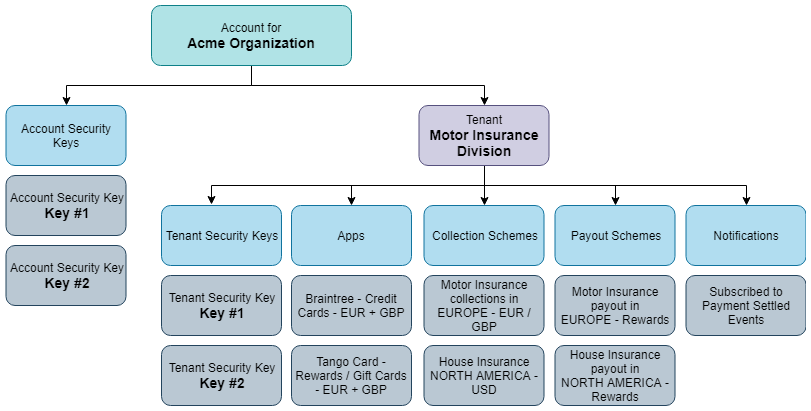
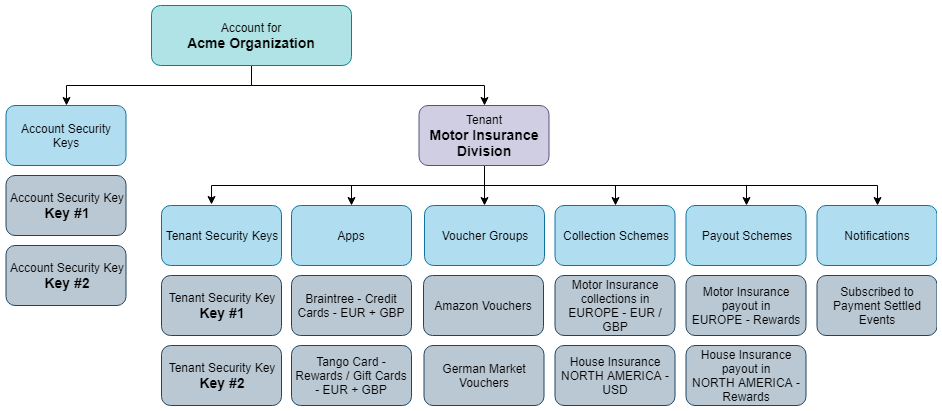
Added Getting Started Introduction. Updated images with new Voucher Groups. Updated Core Concepts.

diff --git a/getting-started.html b/getting-started.html
@@ -51,6 +51,17 @@
                             <div class="icon-holder">
                                 <span aria-hidden="true" class="icon icon_documents_alt"></span>
                             </div>
+                            <h3 class="title">Introduction</h3>
+                            <p class="intro">Getting starting with the Imburse APIs.</p>
+                            <a class="link" href="/pages/getting-started/introduction"><span></span></a>
+                        </div>
+                    </div>
+
+                    <div class="item item-green item-2 col-lg-4 col-6">
+                        <div class="item-inner">
+                            <div class="icon-holder">
+                                <span aria-hidden="true" class="icon icon_documents_alt"></span>
+                            </div>
                             <h3 class="title">Authentication</h3>
                             <p class="intro">How authentication works.</p>
                             <a class="link" href="/pages/getting-started/authentication"><span></span></a>
@@ -91,6 +102,17 @@
                     </div>
 
                     <div class="item item-green item-2 col-lg-4 col-6">
+                            <div class="item-inner">
+                                <div class="icon-holder">
+                                    <span aria-hidden="true" class="icon icon_documents_alt"></span>
+                                </div>
+                                <h3 class="title">Payout Schemes</h3>
+                                <p class="intro">Setting up and configuring Payout Schemes.</p>
+                                <a class="link" href="/pages/getting-started/voucher-groups"><span></span></a>
+                            </div>
+                        </div>
+
+                    <div class="item item-green item-2 col-lg-4 col-6">
                         <div class="item-inner">
                             <div class="icon-holder">
                                 <span aria-hidden="true" class="icon icon_documents_alt"></span>
@@ -106,9 +128,9 @@
                             <div class="icon-holder">
                                 <span aria-hidden="true" class="icon icon_documents_alt"></span>
                             </div>
-                            <h3 class="title">Payout Schemes</h3>
-                            <p class="intro">Setting up and configuring Payout Schemes.</p>
-                            <a class="link" href="/pages/getting-started/payout-schemes"><span></span></a>
+                            <h3 class="title">Rewards Catalog</h3>
+                            <p class="intro">Using the Reward Catalog.</p>
+                            <a class="link" href="/pages/getting-started/rewards-catalog"><span></span></a>
                         </div>
                     </div>
 
@@ -117,9 +139,9 @@
                             <div class="icon-holder">
                                 <span aria-hidden="true" class="icon icon_documents_alt"></span>
                             </div>
-                            <h3 class="title">Rewards Catalog</h3>
-                            <p class="intro">Using the Reward Catalog.</p>
-                            <a class="link" href="/pages/getting-started/rewards-catalog"><span></span></a>
+                            <h3 class="title">Payout Schemes</h3>
+                            <p class="intro">Setting up and configuring Payout Schemes.</p>
+                            <a class="link" href="/pages/getting-started/payout-schemes"><span></span></a>
                         </div>
                     </div>
 

diff --git a/_includes/tocs.html b/_includes/tocs.html
@@ -20,6 +20,7 @@
                     <a class="nav-link scrollto" href="#marketplace">Marketplace</a>
                     <a class="nav-link scrollto" href="#apps">Apps</a>
                     <a class="nav-link scrollto" href="#rewards-catalog">Rewards Catalog</a>
+                    <a class="nav-link scrollto" href="#voucher-groups">Voucher Groups</a>
                     <a class="nav-link scrollto" href="#collection-schemes">Collection Schemes</a>
                     <a class="nav-link scrollto" href="#payout-schemes">Payout Schemes</a>
                     <a class="nav-link scrollto" href="#webhooks">Webhooks</a>
@@ -39,8 +40,13 @@
                     <a class="nav-link scrollto" href="#overview">Overview</a>
 
 
+                {% when 'getting-started-introduction' %}
 
-
+                    <a class="nav-link scrollto" href="#introduction">Introduction</a>
+                    <a class="nav-link scrollto" href="#error-codes">Error Codes</a>
+                    <a class="nav-link scrollto" href="#correlation-ids">Correlation Ids</a>
+                    <a class="nav-link scrollto" href="#metadata">Metadata</a>
+                    <a class="nav-link scrollto" href="#versioning">Versioning</a>
 
                 {% when 'getting-started-authentication' %}
 

diff --git a/documentation.html b/documentation.html
@@ -89,7 +89,7 @@
                         </div>
                     </div>
 
-                    <div class="item item-primary col-lg-4 col-6">
+                    <div class="item item-blue col-lg-4 col-6">
                         <div class="item-inner">
                             <div class="icon-holder">
                                 <i class="icon icon_documents_alt"></i>

diff --git a/pages/getting-started/voucher-groups.md b/pages/getting-started/voucher-groups.md
@@ -1,0 +1,101 @@
+---
+layout: default
+title: Getting Started
+toc: getting-started-authentication
+body_color: body-primary
+section_name: Authentication
+last_updated: May 9th, 2019
+icon_class: icon_documents_alt icon
+---
+# Voucher Groups
+Imburse authenticates your API requests using your Account’s or Tenant's API keys. If you do not include your key when making an API request, or use one that is incorrect or outdated, Imburse returns an error.
+
+Every account is provided with one Account Security Key at registration time. All API requests exist in either sandbox or live modes and your accounts, tenants, apps, schemes, and so forth in one mode cannot be manipulated in the other.
+
+Your API keys are available in the Imburse Portal, however, you cannot get the private key value after it has been created; either via the API or the Imburse Portal. You must safely store the private key values once they have been created.
+
+## Functions
+The available authentication functions are:
+
+- Add a Voucher Group
+- Get all Voucher Groups
+- Get a Voucher Group
+- Update a Voucher Group
+- Delete a Voucher Group
+
+## API Documentation
+All the Authentication API functions are fully documented in the [Voucher Group API documentation](https://api-docs.imbursepayments.com/?version=latest#f6bf99b9-ca03-47b5-a667-8e1a5a625b0e).
+
+## HMAC and Bearer Tokens
+HMAC (Hashed Message Authentication Code), is a specific type of MAC involving a cryptographic hash function and a secret cryptographic key. It is used to simultaneously verify both the data integrity and the authentication of a message. We use the HMAC authentication process for your initial authentication into the Imburse platform.
+
+Once authenticated via the HMAC authentication scheme, we return you a Bearer token to use in subsequence requests.
+
+The HMAC scheme is extremely secure but is computationally quite expensive, both on the client and the server; hence why we respond with a Bearer token once authenticated.
+
+The Bearer token we respond with is a crpytic string signed on the Imburse platform and validated on the server for each API request.
+
+## Account Security Keys vs Tenant Security Keys
+Your account is the top level in a 2-teir heiarachy. Your account can have many Tenants. As such, we have separate Security Keys for Accounts and Tenants.
+
+- **Account Security Key** - access to create new Account Security Keys, create new Tenants, and create new Tenant Security Keys for said Tenants.
+- **Tenant Security Key** - access to configuring the Tenant's Apps, Schemes, and so forth.
+
+Which one you use when authenticating determines the context you are in - either Account or Tenant.
+
+## Tenant Self Service vs Account Controlled
+As the account owner, you can setup your Tenants in two ways:
+
+- **Tenant Self Service** - Set them up with a Tenant Security Key granted with full-access and **SHARE** the public and private key with the Tenant. With a full-access Tenant Security Key the Tenant can self administer themselves, including setting up more Tenant Security Keys for other team members.
+- **Account Controlled** - Setup a Tenant Security Key but **DO NOT SHARE** the public and private key with the Tenant. You can still use the Tenant Security Key to administer the Tenant but the account owner will have to perform the requests on behalf of the Tenant.
+
+**Note: All of your Tenant's do not need to be configured the same.**
+
+## Using a Security Key to Authenticate
+To start the authentication process, you will need an Account or Tenant Security Key.
+
+The diagram below shows the 4 steps of the authentication flow.
+
+<img src="/assets/images/guides/getting-started/authentication-overview.png" style="width:600px;" title="Authentication Flow" alt="Authentication Flow"/>
+
+
+#### Step 1 - Create a HMAC Authorization request to the Identity API
+The Identity API can create 3 different types of Bearer Token for you. The one you need will depend on what you are trying to do. The table below shows the 3 types of task and the corresponding Identity API endpoint to call to get the appropriate Bearer Token. Choose the appropriate Identity endpoint to match the task at hand.
+
+Task | Identity Endpoint
+-|-
+Management tasks in your account<br/>or tenants, including creating customer orders | Choose `Create Management API Bearer Token`
+Processing a payout instruction<br/>or requesting payout options | Choose `Create Payout API Bearer Token`
+Processing a collection instruction<br/>or requesting collection options | Choose `Create Collect API Bearer Token`
+
+Using your the `publicKey` and `privateKey` of your Security Key you must now create an HMAC token from your request. See the example in our [Github Repository](https://github.com/Imburse-Payments/hmac-examples).
+
+Add the `Authorization` header to your request.
+
+```curl
+Authorization HMAC <hmac-token>
+```
+
+#### Step 2 - Identity API response
+The response from the Identity API, irrespective of the endpoint called, will be an access token response:
+
+```json
+{
+  "accessToken": "string",
+  "expires": "string"
+}
+```
+
+Extract the `accessToken` property from the response object. This is your `Bearer Token` for accessing the Management and Transaction APIs here on in.
+
+#### Step 3 - Create a Bearer Authorization request to the Management/Transaction API
+Using the `Bearer Token` returned in Step 2, you can now proceed to make requests to the Management/Transaction APIs.
+
+Add the following `Authorization` header to your request.
+
+```curl
+Authorization Bearer <bearer-token>
+```
+
+#### Step 4 - Management/Transaction API response
+If you make a request to an endpoint that you don't have access to then your request will fail. It can also fail if the Bearer Token has expired. An appropriate status code and response object will be returned accordingly.

diff --git a/pages/getting-started/introduction.md b/pages/getting-started/introduction.md
@@ -1,0 +1,50 @@
+---
+layout: default
+title: Getting Started
+toc: getting-started-introduction
+body_color: body-primary
+section_name: Introduction
+last_updated: May 9th, 2019
+icon_class: icon_documents_alt icon
+---
+# Introduction
+The Imburse API is organized around REST. Our API has predictable resource-oriented URLs, accepts form-encoded request bodies, returns JSON-encoded responses, and uses standard HTTP response codes, authentication, and verbs.
+
+You can use the Imburse API in sandbox mode, which does not affect your live data.
+
+## Error Codes
+Imburse uses conventional HTTP response codes to indicate the success or failure of an API request. In general, codes in the **2xx** range indicate success, codes in the **4xx** range indicate an error that failed given the information provided (e.g., a required parameter was omitted, etc.), and codes in the **5xx** range indicate an error with Imburse's servers,
+
+Response Code | Meaning
+--------------| -------
+200 | **OK** - Everything worked as expected.
+201 | **Created** - The request created a valid entity.
+202 | **Accepted** - The request was accepted.
+204 | **No Content** - The request was successful but no content should be expected back.
+400 | **Bad Request** - The request was unacceptable, often due to missing a required parameter.
+401 | **Unauthorized** - No valid API key provided.
+402 | **Request Failed** - The parameters were valid but the request failed.
+403 | **Forbidden** -- The requested endpoint is not valid for your user or role.
+404 | **Not Found** - The requested resource doesn't exist.
+409 | **Conflict** - The request conflicts with another request (perhaps due to using the same idempotent key).
+429 | **Too Many Requests**	- Too many requests hit the API too quickly. We recommend an exponential backoff of your requests.
+500, 501, 502, 503, 504 | **Internal Server Error** - Something went wrong on Imburse's end.
+
+## Correlation IDs
+Each API request has an associated correlation identifier. You can find this value in the response object under `correlation-id` when errors in the range 500 are returned.
+
+You can also pass in your own **custom** correlation identifier into the request header `X-Correlation-ID`.
+
+If you need to contact us about a specific request, providing the correlation identifier will ensure the fastest possible resolution.
+
+## Metadata
+The Payment Order objects have a metadata parameter. You can use this parameter to attach key-value data to these Imburse objects.
+
+You can specify up to 50 keys, with key names up to 40 characters long and values up to 500 characters long.
+
+Metadata is useful for storing additional, structured information on an object. As an example, you could store your user's full name and corresponding unique identifier from your system on a Imburse Payment Order object. Metadata is not used by Imburse. We will simply return your metadata to you in webhook responses relating to the Payment Order. You can then use this to give added context to your webhook response.
+
+Do not store any sensitive information (personally identifiable information, card details, etc.) as metadata.
+
+## Versioning
+When we make backwards-incompatible changes to the API, we release new, numbered versions. The current version is **V1**. When a new version is released we will post an API upgrade guide and changelog.

diff --git a/pages/guides/core-concepts.md b/pages/guides/core-concepts.md
@@ -17,6 +17,7 @@ The components are:
 - [Security Keys](#security-keys)
 - [Marketplace](#marketplace)
 - [Apps](#apps)
+- [Voucher Groups](#voucher-groups)
 - [Collecion Schemes](#collection-schemes)
 - [Payout Schemes](#payout-schemes)
 - [Notifications](#webhooks)
@@ -59,6 +60,9 @@ The Marketplace is the place to go to find, add, and configure the [Apps](#apps)
 
 ## Apps
 Apps are components that you can install and configure into your Tenant that provide capabilities for you customers such as collecting credit card or PayPal payments, or paying out reward vouchers.
+
+## Voucher Groups
+Voucher Groups allow you to create named groups of vouchers. These can then be referenced in your Payout Schemes.
 
 ## Rewards Catalog
 The Rewards Catalog is a searchable catalog of the rewards and vouchers offered by Imburse partners.
